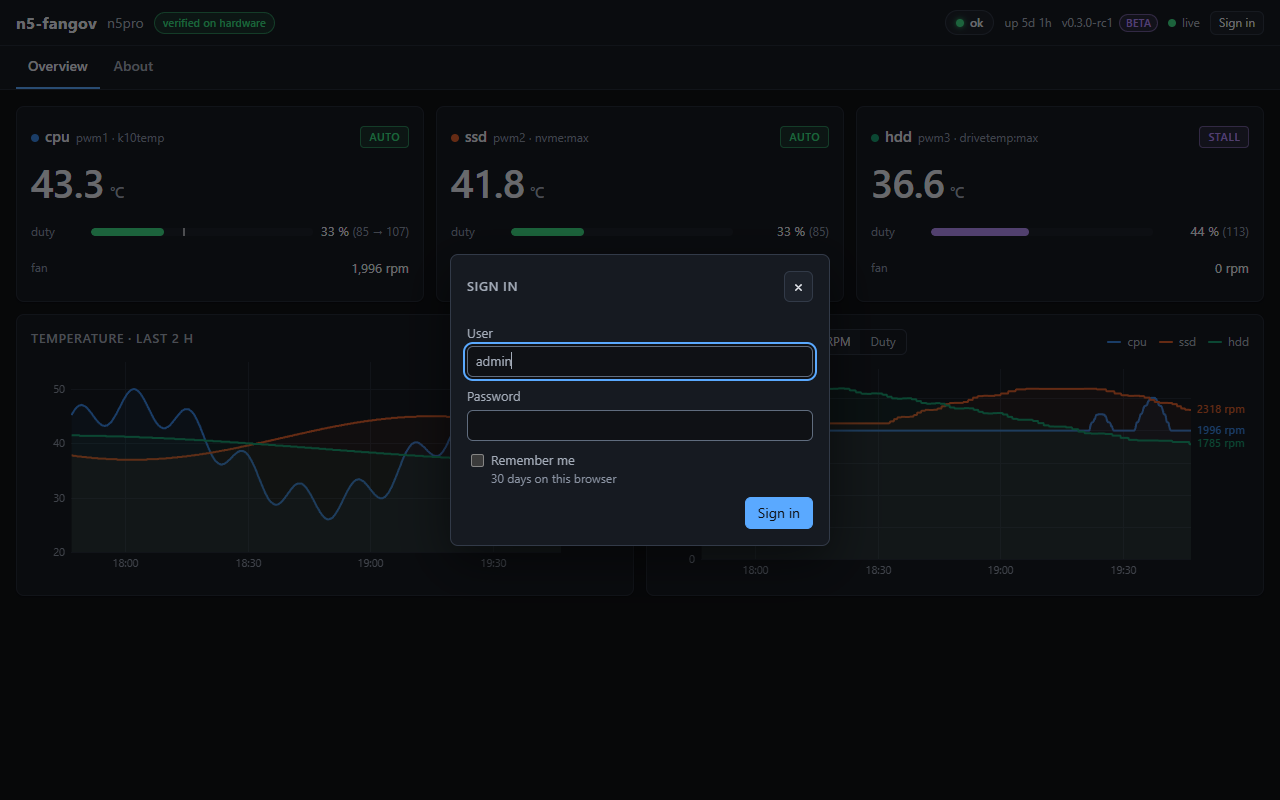
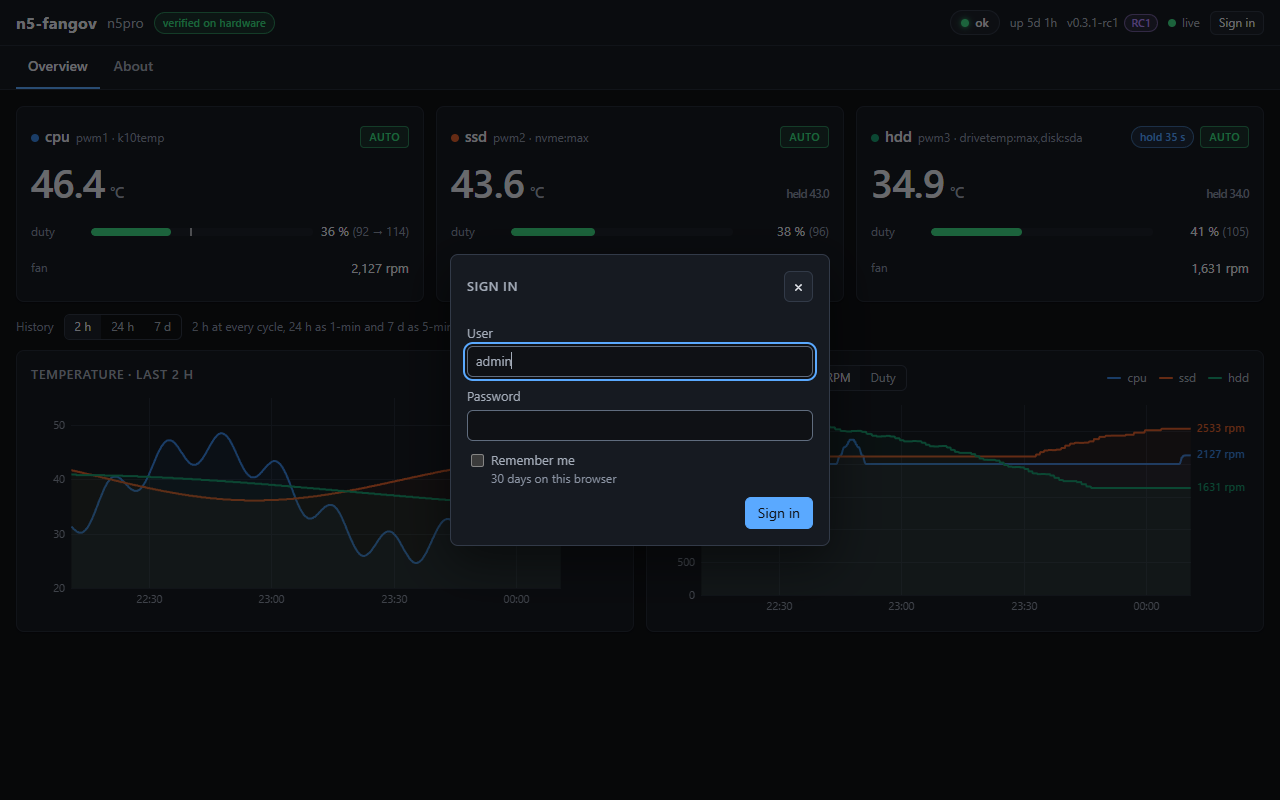
docs/screenshots: regenerate all views from the 0.3.1-rc1 mock, 09 through a real 202, 27-31 added
shots.mjs drives step 09 through PUT /api/config with &restart=1 instead
of writing the notice text into the DOM; the README row loses the
"synthesised" remark. The five 0.3.1 views (24 h range, schedules card,
webhook transport, API tokens, curve fields) are captured for the first
time; 01-26 are regenerated from the same run.

diff --git a/docs/screenshots/README.md b/docs/screenshots/README.md
@@ -23,7 +23,7 @@ by clicking the same controls a user would.
 | `06-settings-popover.png` | Settings gear | `?mock=1&user=1` → ⚙ | unit, interval, theme, export/import, Certificate…, Account… |
 | `07-curves.png` | Curves | `?mock=1&user=1&tab=curves` | editor, table, `+ add point`, crit line, now marker, duty→RPM reference |
 | `08-curves-error.png` | Curves, validation error | critical cleared, stop `300` → *Apply* | red notice, nothing sent |
-| `09-curves-restart-required.png` | Curves, restart required | notice text set to the client's 202 string | **synthesised**: in the audited build the notice is hidden again by the editor reload right after Apply (`docs/AUDIT.md` §4); regenerate through a real 202 once the frontend fix is merged |
+| `09-curves-restart-required.png` | Curves, restart required | `?mock=1&user=1&tab=curves&restart=1`, critical +1 → *Apply* (the mock answers 202) | restart notice, stays after the editor reload until *Revert* |
 | `10-manual.png` | Manual | `?mock=1&user=1&tab=manual`, hdd slider at 40 | minimum-60 hint for HDD-like channels |
 | `11-presets.png` | Presets | `?mock=1&user=1&tab=presets` → *Details* | built-in / recommended badges, channel tables |
 | `12-alerts.png` | Alerts | `?mock=1&user=1&tab=alerts` | transport form, template card, kinds table, recent |
